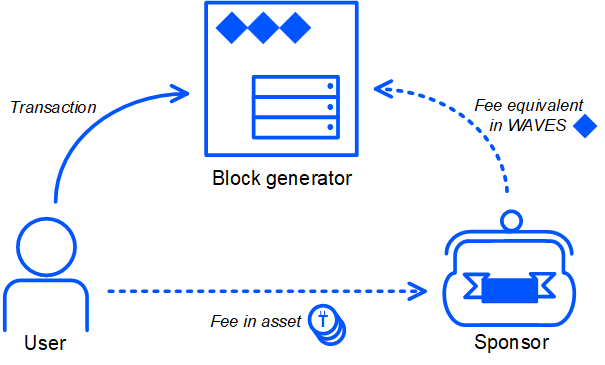
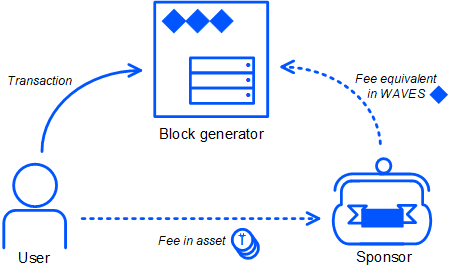
DOC-645 resize image

diff --git a/docs/en/blockchain/transaction/transaction-fee.md b/docs/en/blockchain/transaction/transaction-fee.md
@@ -40,13 +40,13 @@ The minimum fee for an Invoke Script transaction:
 | :--- | :--- | :--- | :--- |
 | [Burn transaction](/en/blockchain/transaction-type/burn-transaction) | 6 | 0.001 |
 | [Create Alias transaction](/en/blockchain/transaction-type/create-alias-transaction) | 10 | 0.001 |
-| [Data transaction](/en/blockchain/transaction-type/data-transaction) | 12 | 0.001 per kilobyte | The value is rounded up to the thousandths |
+| [Data transaction](/en/blockchain/transaction-type/data-transaction) | 12 | 0.001 per kilobyte | The value is rounded up to three decimals |
 | [Exchange transaction](/en/blockchain/transaction-type/exchange-transaction) | 7 | 0.003 |
 | [Invoke Script transaction](/en/blockchain/transaction-type/invoke-script-transaction) | 16 | 0.005 + `K`<br>`K` is the number of assets issued as a result of dApp script invocation that are not [non-fungible tokens](/en/blockchain/token/non-fungible-token).<br>Asset issue by dApp script added to node version 1.2.0. The functionality can be used after activation of feature #15 “Ride V4, VRF, Protobuf, Failed transactions”. Versions 1.2.x are currently available on [Stagenet](/en/blockchain/blockchain-network/) only.<br>See [example 2](#example2) above |
 | [Issue transaction](/en/blockchain/transaction-type/issue-transaction) | 3 | • 1 for reqular token <br>• 0.001 for [non-fungible token](/en/blockchain/token/non-fungible-token) |
 | [Lease Cancel transaction](/en/blockchain/transaction-type/lease-cancel-transaction) | 9 | 0.001 |
 | [Lease transaction](/en/blockchain/transaction-type/lease-transaction) | 8 | 0.001 |
-| [Mass Transfer transaction](/en/blockchain/transaction-type/mass-transfer-transaction) | 11 | 0.001 + 0.0005 × `N`<br>`N` is the number of transfers inside of the transaction.<br>The value is rounded up to the thousandths |
+| [Mass Transfer transaction](/en/blockchain/transaction-type/mass-transfer-transaction) | 11 | 0.001 + 0.0005 × `N`<br>`N` is the number of transfers inside of the transaction.<br>The value is rounded up to the three decimals |
 | [Reissue transaction](/en/blockchain/transaction-type/reissue-transaction) | 5 | • 0.001 – after activation of feature #15 “Ride V4, VRF, Protobuf, Failed transactions”.<br>• 1 — before activation of feature #15 |
 | [Set Asset Script transaction](/en/blockchain/transaction-type/set-asset-script-transaction) | 15 | 1 |
 | [Set Script transaction](/en/blockchain/transaction-type/set-script-transaction) | 13 | 0.01 |

diff --git a/docs/en/blockchain/transaction-type/mass-transfer-transaction.md b/docs/en/blockchain/transaction-type/mass-transfer-transaction.md
@@ -4,7 +4,7 @@ Mass Transfer transaction transfers a [token](/en/blockchain/token/) to several 
 
 ## Fee
 
-The minimum fee for a Mass Transfer transaction is 0.001 + 0.0005 × N WAVES, in case of transfer a [smart asset](/en/blockchain/token/smart-asset) 0.005  + 0.0005 × N WAVES, where N is the number of recipients. The fee value is rounded up to the thousandths.
+The minimum fee for a Mass Transfer transaction is 0.001 + 0.0005 × N WAVES, in case of transfer a [smart asset](/en/blockchain/token/smart-asset) 0.005  + 0.0005 × N WAVES, where N is the number of recipients. The fee value is rounded up to three decimals.
 
 If the transaction sender is a [dApp](/en/blockchain/account/dapp) or a [smart account](/en/blockchain/account/smart-account), the minimum fee is increased by 0.004 WAVES.
 

diff --git a/docs/ru/keep-in-touch/docs-update.md b/docs/ru/keep-in-touch/docs-update.md
@@ -2,15 +2,16 @@
 
 ## Август
 
+### Блокчейн
+
 * Обновлены статьи о транзакциях:
    * [Транзакция](/ru/blockchain/transaction/)
    * [Подпись и подтверждения транзакции](/ru/blockchain/transaction/transaction-proof)
    * [Типы транзакций](/ru/blockchain/transaction-type/) и описания всех типов
 
-
 ## Июль
 
-### Блокчейн Waves
+### Блокчейн
 
 * Обновлена статья [Сети блокчейна: Mainnet, Testnet, Stagenet](/ru/blockchain/blockchain-network/).
 

diff --git a/docs/en/keep-in-touch/docs-update.md b/docs/en/keep-in-touch/docs-update.md
@@ -7,7 +7,7 @@
 * Updated the following articles about transaction:
    * [Transaction](/en/blockchain/transaction/)
    * [Transaction Signature and Proofs](/en/blockchain/transaction/transaction-proof)
-   * [Transaction Types](/en/blockchain/transaction-type/) descriptions of all types
+   * [Transaction Types](/en/blockchain/transaction-type/) as well as descriptions of all types
 
 ## July
 
